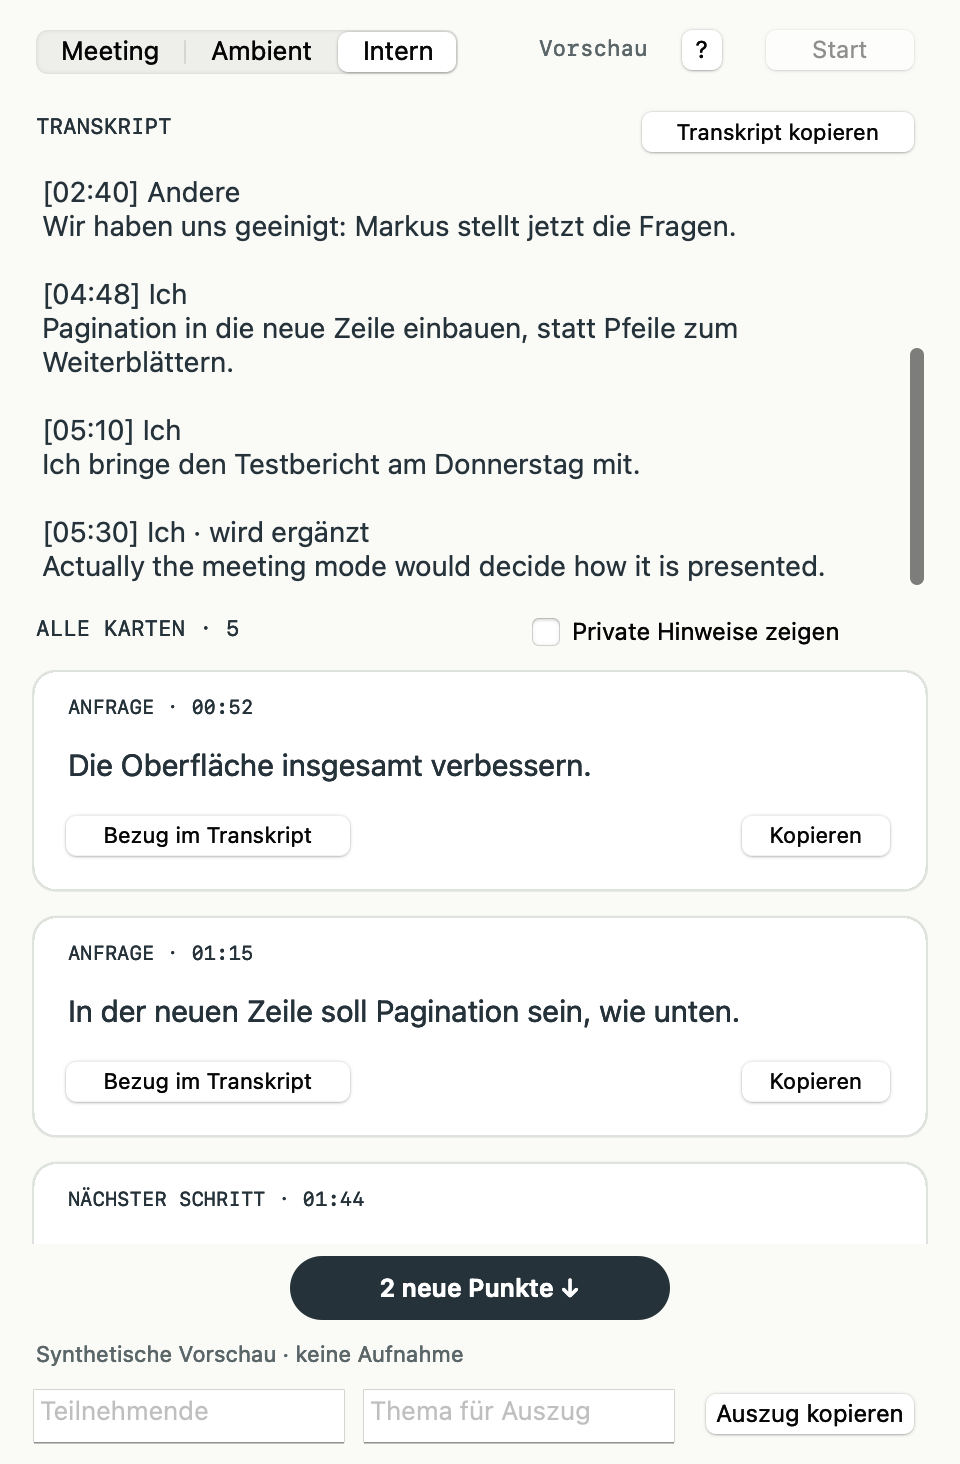
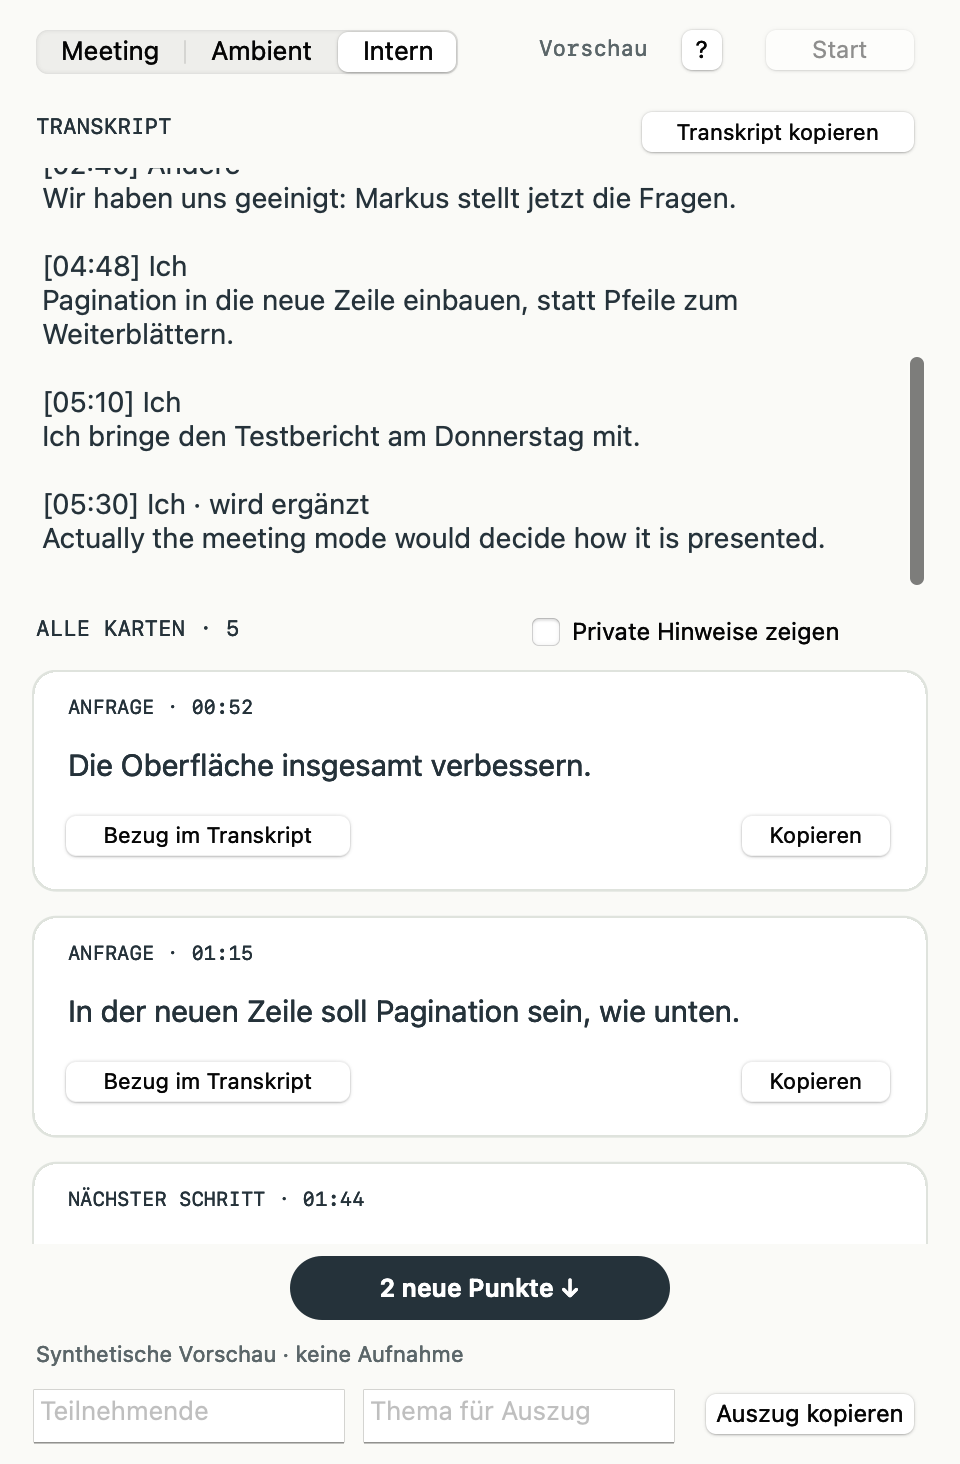
feat(live): transcript visible, scrollable and copyable in every view
Meeting and Ambient get a muted, follow-the-end transcript pane (lower 40% when narrow, right
column when wide; Meeting full screen uses a band below the three point columns). "Transkript
kopieren" sits next to the label in all views. The one-line Zuletzt strip is gone.

Changed region(s): [[0.0312, 0.123, 0.875, 0.3996]]

diff --git a/tools/sidecar/panel_layout.py b/tools/sidecar/panel_layout.py
@@ -32,13 +32,13 @@ METRICS = {
 }
 
 # What each view shows. A name missing here is hidden (fail closed).
-_BASE = frozenset({"window_mode", "state", "record", "cards", "marker", "jump"})
-MEETING_CONTROLS = _BASE | {"recent"}
+# The transcript, with its copy button, is visible in every view.
+_BASE = frozenset({"window_mode", "state", "record", "cards", "marker", "jump",
+                   "transcript", "transcript_label", "copy_transcript"})
+MEETING_CONTROLS = _BASE
 AMBIENT_CONTROLS = _BASE | {"cards_label", "status", "ctx_label", "ctx_range", "ctx_copy", "ctx_claude"}
-INTERNAL_CONTROLS = _BASE | {"cards_label", "transcript", "transcript_label", "copy_transcript", "audience", "help",
-                             "speakers", "topic", "clip", "status"}
-_FULLSCREEN_EXTRA = {"ambient": frozenset({"transcript", "transcript_label"}),
-                     "internal": frozenset({"speakers_label", "topic_label", "rail"})}
+INTERNAL_CONTROLS = _BASE | {"cards_label", "audience", "help", "speakers", "topic", "clip", "status"}
+_FULLSCREEN_EXTRA = {"internal": frozenset({"speakers_label", "topic_label", "rail"})}
 
 
 def visible_controls(view: str, *, fullscreen: bool = False) -> frozenset:
@@ -132,6 +132,14 @@ def _header(rects, view, w, h, m):
     return h - hh
 
 
+def _transcript_block(rects, x, y, w, h):
+    """Label, copy button and a scrollable pane in the box (x, y, w, h)."""
+    label_h, btn_h = 18.0, 26.0
+    rects["transcript_label"] = (x, y + h - label_h - 2, max(40.0, w - 160), label_h)
+    rects["copy_transcript"] = (x + w - 150, y + h - btn_h, 150.0, btn_h)
+    rects["transcript"] = (x, y, w, max(40.0, h - btn_h - 6))
+
+
 def _marker(rects, x, w, y):
     rects["marker"] = (x + (w - MARKER_SIZE[0]) / 2, y, *MARKER_SIZE)
 
@@ -149,10 +157,25 @@ def view_layout(view: str, width: float, height: float, *, fullscreen: bool = Fa
     band = 56.0 if mode == "fullscreen" else 44.0
     label_h = 18.0
     if view == "meeting":
-        recent_h = 52.0 if mode == "fullscreen" else 34.0
-        rects["recent"] = (pad, 0.0, inner, recent_h)
-        _marker(rects, pad, inner, recent_h + (band - MARKER_SIZE[1]) / 2)
-        rects["cards"] = (pad, recent_h + band, inner, max(60.0, top - recent_h - band - 6))
+        bottom, body_top = 12.0 if mode != "fullscreen" else 28.0, top - 4
+        total = body_top - bottom
+        if mode == "narrow":  # points on top, transcript in the lower 40%
+            tr_h = max(120.0, total * 0.4)
+            _transcript_block(rects, pad, bottom, inner, tr_h)
+            cy = bottom + tr_h + 6
+            _marker(rects, pad, inner, cy + (band - MARKER_SIZE[1]) / 2)
+            rects["cards"] = (pad, cy + band, inner, max(60.0, body_top - cy - band))
+        elif mode == "wide":  # points left, transcript column right
+            left = round((inner - gap) * 0.56)
+            _transcript_block(rects, pad + left + gap, bottom, inner - left - gap, total)
+            _marker(rects, pad, left, bottom + (band - MARKER_SIZE[1]) / 2)
+            rects["cards"] = (pad, bottom + band, left, max(60.0, total - band))
+        else:  # full screen: three point columns, transcript as a band below (four columns get too tight)
+            tr_h = round(total * 0.28)
+            _transcript_block(rects, pad, bottom, inner, tr_h)
+            cy = bottom + tr_h + 10
+            _marker(rects, pad, inner, cy + (band - MARKER_SIZE[1]) / 2)
+            rects["cards"] = (pad, cy + band, inner, max(60.0, body_top - cy - band))
         return rects
     if view == "ambient":
         foot = 84.0 if mode == "narrow" else (76.0 if mode == "fullscreen" else 56.0)
@@ -168,15 +191,21 @@ def view_layout(view: str, width: float, height: float, *, fullscreen: bool = Fa
         if mode != "narrow":
             sx = x + 246 + 130 + 14
             rects["status"] = (sx, (foot - label_h) / 2, max(40.0, width - pad - sx), label_h)
-        list_w = inner if mode != "fullscreen" else round((inner - gap) * 0.58)
-        rects["cards_label"] = (pad, top - label_h - 4, list_w, label_h)
-        _marker(rects, pad, list_w, foot + (band - MARKER_SIZE[1]) / 2)
-        rects["cards"] = (pad, foot + band, list_w, max(60.0, top - label_h - 12 - foot - band))
-        if mode == "fullscreen":
+        body_top = top - 4
+        if mode == "narrow":  # list on top, transcript in the lower 40%
+            tr_h = max(110.0, (body_top - foot - 8) * 0.4)
+            _transcript_block(rects, pad, foot + 8, inner, tr_h)
+            cy = foot + 8 + tr_h + 4
+            rects["cards_label"] = (pad, body_top - label_h, inner, label_h)
+            _marker(rects, pad, inner, cy + (band - MARKER_SIZE[1]) / 2)
+            rects["cards"] = (pad, cy + band, inner, max(60.0, body_top - label_h - 8 - cy - band))
+        else:  # list left, pale transcript column right
+            list_w = round((inner - gap) * 0.58)
+            rects["cards_label"] = (pad, body_top - label_h, list_w, label_h)
+            _marker(rects, pad, list_w, foot + (band - MARKER_SIZE[1]) / 2)
+            rects["cards"] = (pad, foot + band, list_w, max(60.0, body_top - label_h - 8 - foot - band))
             tx = pad + list_w + gap
-            tw = width - pad - tx
-            rects["transcript_label"] = (tx, top - label_h - 4, tw, label_h)
-            rects["transcript"] = (tx, foot + 8, tw, max(60.0, top - label_h - 12 - foot - 8))
+            _transcript_block(rects, tx, foot + 8, width - pad - tx, body_top - foot - 8)
         return rects
     # internal
     btn_h = 26.0
@@ -267,11 +296,12 @@ PANEL_HELP = (
     "Drei Ansichten\n"
     "Der Schalter oben links wählt die Ansicht. Die Wahl bleibt gespeichert. "
     "Meeting ist die ruhige Ansicht zum Teilen: nur Entscheidungen, nächste Schritte und Anfragen, "
-    "ohne KI-Ideen, ohne private Hinweise, ohne Knöpfe an den Punkten. Das Transkript ist nur eine leise Zeile «Zuletzt». "
+    "ohne KI-Ideen, ohne private Hinweise, ohne Knöpfe an den Punkten. Das Transkript läuft gedämpft daneben oder darunter. "
     "Ambient läuft nebenher, wenn du allein arbeitest: eine Zeile pro Punkt und unten «Kontext für Claude» "
     "(letzte 10 Minuten oder ganze Sitzung). «Kopieren» legt diesen Ausschnitt in die Zwischenablage, "
     "«Claude starten» öffnet eine Claude-Sitzung, die den Ausschnitt nur als Hintergrund bekommt und zuerst nachfragt. "
-    "Intern zeigt das ganze Transkript, alle Karten samt KI-Ideen und die Werkzeuge.\n\n"
+    "Intern zeigt das Transkript in voller Stärke, alle Karten samt KI-Ideen und die Werkzeuge. "
+    "In allen drei Ansichten ist das Transkript sichtbar, scrollbar und markierbar; «Transkript kopieren» kopiert es ganz.\n\n"
     "Fenstergrösse\n"
     "Das Layout folgt dem Fenster: schmal eine Spalte, breit mehrere Spalten. "
     "Der grüne Fensterknopf öffnet das native Vollbild mit eigenem, grosszügigerem Layout. "
@@ -285,7 +315,7 @@ PANEL_HELP = (
     "Namen mit Komma trennen, Enter speichert. Vorschläge kommen aus der Kalendereinladung. "
     "Das finale Transkript ordnet die Stimmen diesen Namen zu; nicht genannte Eingeladene werden ignoriert. "
     "Am besten vor dem Stoppen eintragen.\n\n"
-    "Transkript kopieren (Intern)\n"
+    "Transkript kopieren\n"
     "Kopiert das ganze bisherige Transkript dieser Aufnahme, während und nach der Aufnahme.\n\n"
     "Themenauszug (Intern)\n"
     "Das Themenfeld und «Auszug kopieren» kopieren passende Textstellen der laufenden Aufnahme. "

diff --git a/tests/test_live_three_views.py b/tests/test_live_three_views.py
@@ -59,18 +59,20 @@ def test_view_persistence_roundtrip_and_old_values(tmp_path):
 # ---- visible controls ---------------------------------------------------------------
 
 def test_visible_controls_per_view():
-    for forbidden in ("audience", "speakers", "topic", "clip", "help", "copy_transcript", "transcript", "ctx_claude"):
+    for forbidden in ("audience", "speakers", "topic", "clip", "help", "ctx_claude", "recent"):
         assert forbidden not in MEETING_CONTROLS
-    assert {"window_mode", "state", "record", "cards", "recent", "marker"} <= MEETING_CONTROLS
+    for view in VIEWS:  # the transcript and its copy button are in every view
+        assert {"transcript", "transcript_label", "copy_transcript"} <= visible_controls(view)
+    assert {"window_mode", "state", "record", "cards", "marker"} <= MEETING_CONTROLS
     assert {"ctx_label", "ctx_range", "ctx_copy", "ctx_claude", "cards"} <= AMBIENT_CONTROLS
-    for forbidden in ("audience", "speakers", "topic", "clip", "help", "copy_transcript", "recent"):
+    for forbidden in ("audience", "speakers", "topic", "clip", "help", "recent"):
         assert forbidden not in AMBIENT_CONTROLS
     assert {"transcript", "copy_transcript", "audience", "help", "speakers", "topic", "clip", "cards"} <= INTERNAL_CONTROLS
     assert "ctx_claude" not in INTERNAL_CONTROLS and "recent" not in INTERNAL_CONTROLS
     for view in VIEWS:
         assert {"window_mode", "record", "state"} <= visible_controls(view)
     # full screen adds only what the roomier layout draws
-    assert "transcript" in visible_controls("ambient", fullscreen=True) and "transcript" not in visible_controls("ambient")
+    assert visible_controls("ambient", fullscreen=True) == AMBIENT_CONTROLS
     assert "rail" in visible_controls("internal", fullscreen=True)
     assert visible_controls("meeting", fullscreen=True) == MEETING_CONTROLS
 
@@ -141,7 +143,7 @@ def test_layout_rects_fit_and_content_areas_do_not_overlap(view, size):
         if name in {"state", "help", "status"}:
             continue  # optional on narrow windows
         assert name in rects, name
-    areas = [n for n in ("cards", "transcript", "recent", "rail", "ctx_range", "ctx_copy", "ctx_claude", "speakers",
+    areas = [n for n in ("cards", "transcript", "copy_transcript", "transcript_label", "rail", "ctx_range", "ctx_copy", "ctx_claude", "speakers",
                          "topic", "clip", "window_mode", "record") if n in rects]
     if view == "internal" and fullscreen:
         areas = [n for n in areas if n not in {"speakers", "topic", "clip"}]  # those sit on the rail
@@ -171,7 +173,20 @@ def test_fullscreen_layouts_are_roomier_and_view_specific():
     assert internal["rail"][0] > internal["transcript"][0] + internal["transcript"][2]
     for name in ("speakers", "topic", "clip"):
         assert inside(internal[name], *internal["rail"][2:]) or internal[name][0] >= internal["rail"][0]
-    assert "transcript" not in view_layout("meeting", 1440, 900, fullscreen=True)
+    mfull = view_layout("meeting", 1440, 900, fullscreen=True)     # three point columns, transcript band below
+    assert mfull["transcript"][1] + mfull["transcript"][3] < mfull["cards"][1] and mfull["transcript"][2] == mfull["cards"][2]
+    assert mfull["transcript"][3] > 100
+
+
+@pytest.mark.parametrize("view", ["meeting", "ambient"])
+def test_transcript_pane_in_meeting_and_ambient_by_size(view):
+    narrow = view_layout(view, 480, 760)                            # points on top, ~40% transcript below
+    body = narrow["cards"][1] + narrow["cards"][3] - narrow["transcript"][1]
+    assert narrow["transcript"][1] < narrow["cards"][1]
+    assert 0.3 < narrow["transcript"][3] / body < 0.5
+    assert narrow["copy_transcript"][1] > narrow["transcript"][1] + narrow["transcript"][3] - 1
+    wide = view_layout(view, 1000, 700)                             # transcript as right-hand column
+    assert wide["transcript"][0] >= wide["cards"][0] + wide["cards"][2]
 
 
 def test_narrow_window_has_room_for_switch_state_and_record():
@@ -313,6 +328,7 @@ def test_jump_default_http_call_is_not_used_when_injected(tmp_path, monkeypatch)
 def test_help_describes_three_views_and_not_the_removed_switches():
     for word in ("Meeting", "Ambient", "Intern", "Kontext für Claude", "Private Hinweise zeigen"):
         assert word in PANEL_HELP
+    assert "Zuletzt" not in PANEL_HELP
     for gone in ("Kompakt", "Präsentation", "Kundenansicht", "Vollbild-Knopf", "Vollbild)"):
         assert gone not in PANEL_HELP
     assert "ue" not in {w for w in PANEL_HELP.split() if w in {"fuer", "ueber", "Loesung"}}
@@ -349,15 +365,17 @@ def test_panel_controls_per_view(tmp_path, monkeypatch):
         panel.show()
         shown = lambda *views: all(v.isHidden() is False for v in views)
         hidden = lambda *views: all(v.isHidden() is True for v in views)
-        assert shown(panel._window_control, panel._record_button, panel.cards_scroll, panel._recent_label)
-        assert hidden(panel._ctx_claude, panel._transcript_scroll, panel._help_button, panel._audience_check)
+        assert shown(panel._window_control, panel._record_button, panel.cards_scroll, panel._transcript_scroll,
+                     panel._transcript_label, panel._copy_transcript_button)
+        assert hidden(panel._ctx_claude, panel._help_button, panel._audience_check)
         panel.set_window_mode("ambient")
-        assert shown(panel._ctx_claude, panel._ctx_copy, panel._ctx_range, panel.cards_scroll)
-        assert hidden(panel._recent_label, panel._transcript_scroll, panel._help_button, panel.topic_field)
+        assert shown(panel._ctx_claude, panel._ctx_copy, panel._ctx_range, panel.cards_scroll,
+                     panel._transcript_scroll, panel._copy_transcript_button)
+        assert hidden(panel._help_button, panel.topic_field)
         panel.set_window_mode("internal")
         assert shown(panel._transcript_scroll, panel._help_button, panel._audience_check, panel.topic_field,
                      panel.speakers_field, panel._copy_transcript_button)
-        assert hidden(panel._ctx_claude, panel._recent_label)
+        assert hidden(panel._ctx_claude)
         assert panel.view_mode in {"narrow", "wide"}
     finally:
         panel.close()
@@ -445,5 +463,24 @@ def test_panel_claude_start_failure_shows_a_message_and_never_raises(tmp_path, m
         while "nicht erreichbar" not in str(panel.status_field.stringValue()) and time.monotonic() < deadline:
             time.sleep(0.01)
         assert "nicht erreichbar" in str(panel.status_field.stringValue())
+    finally:
+        panel.close()
+
+
+@pytest.mark.parametrize("view", VIEWS)
+@pytest.mark.parametrize("state", ["recording", "stopped"])
+def test_copy_transcript_works_in_every_view_during_and_after_recording(tmp_path, monkeypatch, view, state):
+    panel = _panel(tmp_path, monkeypatch)
+    try:
+        panel.show()
+        panel.set_window_mode(view)
+        panel.set_recording_state(state)
+        panel.apply_update(_lines(3), [], "")
+        assert panel._copy_transcript_button.isHidden() is False and panel._copy_transcript_button.isEnabled()
+        panel.copy_transcript()
+        deadline = time.monotonic() + 2
+        while not panel.copied and time.monotonic() < deadline:
+            time.sleep(0.01)
+        assert panel.copied and all(f"Satz {i}" in panel.copied[0] for i in range(3))
     finally:
         panel.close()

diff --git a/tools/sidecar/live_window.py b/tools/sidecar/live_window.py
@@ -16,7 +16,7 @@ from .live import LiveCard, LiveLine
 from . import jump
 from .panel_layout import (COMPACT_SIZE, CONTEXT_RANGES, METRICS, MINIMUM_SIZE, PANEL_HELP, VIEW_LABELS, VIEWS,
                            card_columns, cards_for_view, context_range_label, context_text, is_at_bottom,
-                           latest_line_text, panel_mode, scroll_offset_after_update, source_ranges, split_columns,
+                           panel_mode, scroll_offset_after_update, source_ranges, split_columns,
                            transcript_content, transcript_copy_text, view_layout, visible_controls)
 from .recorder_support import PREFERENCE_FILENAME, read_window_mode, write_window_mode
 from .reveal import RevealState
@@ -415,9 +415,6 @@ class LivePanel:
         self._marker_button.setTarget_(self._target)
         self._marker_button.setAction_("revealPending:")
         self._marker_button.setToolTip_("Holt die neuen Punkte in die Liste. Bis dahin bleibt alles, wie es ist.")
-        self._recent_label = self._label("", 12.5)
-        self._recent_label.setTextColor_(_color("8A9496"))
-        self._recent_label.cell().setLineBreakMode_(A.NSLineBreakByTruncatingTail)
         self._ctx_label = self._label("KONTEXT FÜR CLAUDE", 11, utility=True)
         self._ctx_range = A.NSPopUpButton.alloc().initWithFrame_pullsDown_(NSMakeRect(0, 0, 140, 28), False)
         self._ctx_range.addItemsWithTitles_([title for _key, title in CONTEXT_RANGES])
@@ -430,7 +427,7 @@ class LivePanel:
         for view in (self._rail, self._state_label, self._window_control, self._help_button, self._audience_check,
                      self._transcript_label, self._copy_transcript_button, self._cards_label, self._transcript_scroll,
                      self.cards_scroll, self._help_scroll, self.status_field, self._speakers_label, self.speakers_field,
-                     self._topic_label, self.topic_field, self._clip_button, self._record_button, self._recent_label,
+                     self._topic_label, self.topic_field, self._clip_button, self._record_button,
                      self._ctx_label, self._ctx_range, self._ctx_copy, self._ctx_claude, self._marker_button,
                      *self._jump_buttons.values()):
             self._surface.addSubview_(view)
@@ -442,7 +439,7 @@ class LivePanel:
             "transcript_label": (self._transcript_label,), "copy_transcript": (self._copy_transcript_button,),
             "speakers": (self.speakers_field,), "speakers_label": (self._speakers_label,),
             "topic": (self.topic_field,), "topic_label": (self._topic_label,), "clip": (self._clip_button,),
-            "status": (self.status_field,), "recent": (self._recent_label,), "rail": (self._rail,),
+            "status": (self.status_field,), "rail": (self._rail,),
             "ctx_label": (self._ctx_label,), "ctx_range": (self._ctx_range,), "ctx_copy": (self._ctx_copy,),
             "ctx_claude": (self._ctx_claude,), "marker": (self._marker_button,)}
         self._built = True
@@ -485,8 +482,11 @@ class LivePanel:
             self._audience_check.setState_(1 if self.audience == "internal" else 0)
             self._state_label.setAlignment_(A.NSTextAlignmentRight)
             self.transcript_text.setFont_(_font(metrics["transcript"]))
-            self.transcript_text.setTextColor_(_color("22323B" if self._lines else "6D777A"))
+            self.transcript_text.setTextColor_(_color(
+                ("22323B" if view == "internal" else "8A9496") if self._lines else "6D777A"))
+            old_transcript_offset = float(self._transcript_scroll.contentView().bounds().origin.y)
             self._fit_text_view(self._transcript_scroll, self.transcript_text)
+            self._apply_scroll("transcript", old_transcript_offset)  # a resize keeps following the end
             self._fit_text_view(self._help_scroll, self._help_text)
             self._place_jump_buttons()
             self._render_cards()
@@ -762,8 +762,7 @@ class LivePanel:
         self._ctx_claude.setEnabled_(bool(self._lines))
         self._ctx_range.selectItemAtIndex_([key for key, _t in CONTEXT_RANGES].index(self._context_range))
         self._cards_label.setStringValue_(self._cards_label_text())
-        self._transcript_label.setStringValue_("TRANSKRIPT · IM HINTERGRUND" if self.window_mode == "ambient" else "TRANSKRIPT")
-        self._render_recent()
+        self._transcript_label.setStringValue_("TRANSKRIPT")
         if self.window_mode == "ambient":
             hint = "Beispieldaten · Mikrofon ist aus." if self._recording_state == "preview" else "Läuft nebenher."
         elif self._recording_state == "preview":
@@ -794,7 +793,7 @@ class LivePanel:
             value = ("Sobald du sprichst, erscheint hier das Transkript." if self._recording_state == "recording"
                      else "Starte die Aufnahme, wenn alle Beteiligten einverstanden sind.")
         self.transcript_text.setString_(value)
-        quiet = self.window_mode == "ambient"
+        quiet = self.window_mode != "internal"  # points stay the focus in Meeting and Ambient
         self.transcript_text.setTextColor_(_color(("8A9496" if quiet else "22323B") if self._lines else "6D777A"))
         self._fit_text_view(self._transcript_scroll, self.transcript_text)
         selected = next((card for card in self.rendered_cards if card.key == self._highlighted_key), None)
@@ -805,11 +804,6 @@ class LivePanel:
         # The highlight is shown once, when the reader opens a card's source
         # (toggle_source); a later update never pulls the view back to it.
         self._apply_scroll("transcript", old_offset)
-        self._render_recent()
-
-    def _render_recent(self) -> None:
-        recent = latest_line_text(self._lines)
-        self._recent_label.setStringValue_(f"Zuletzt   {recent}" if recent else "Zuletzt   noch nichts gehört")
 
     def _render_cards(self) -> None:
         if self.cards_document is None:

diff --git a/tests/test_live_window_experience.py b/tests/test_live_window_experience.py
@@ -192,7 +192,7 @@ def test_panel_defaults_to_meeting_and_hides_internal_controls(tmp_path, monkeyp
         panel.show()
         assert panel._record_button.isHidden() is False
         for view in (panel.topic_field, panel.speakers_field, panel._clip_button, panel._audience_check,
-                     panel._help_button, panel._copy_transcript_button, panel._ctx_claude, panel._transcript_scroll):
+                     panel._help_button, panel._ctx_claude):
             assert view.isHidden() is True
         panel.set_window_mode("internal")
         assert panel.topic_field.isHidden() is False and panel._audience_check.isHidden() is False
